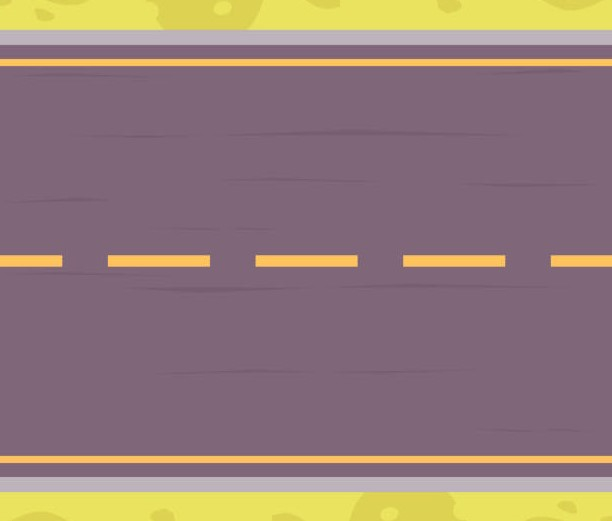
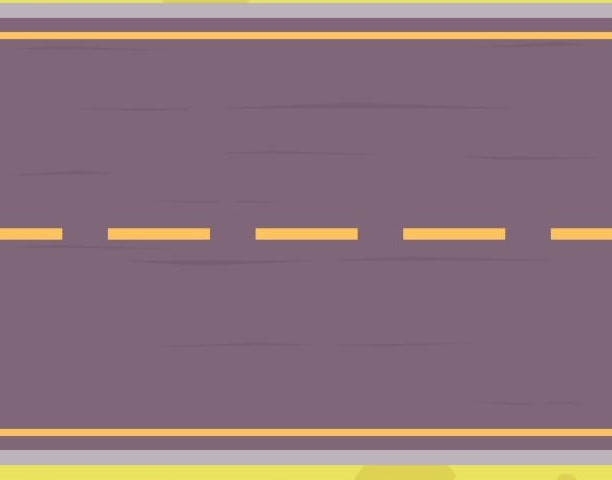
objetos cambiados

diff --git a/js/main.js b/js/main.js
@@ -24,7 +24,7 @@ let piedraArray= [];
 const abajoMax= 350;
 const arribaMax= 0;
 let botellaArray=[];
-let numberVidas= 1; //contador de vidas
+let numberVidas= 2; //contador de vidas
 let speedGlobal= 3;   //velocidad principal de todos los objetos
 
 
@@ -52,7 +52,7 @@ function startGame() {
   }, 20000)
 
   setInterval(()=>{
-    speedGlobal += 0.5;
+    speedGlobal += 0.7;
   }, 6000);
   
 }
@@ -103,20 +103,24 @@ function esElLimiteCorredor(position, direction){
 function addPiedra(){
   let randomPositionY= Math.floor(Math.random()*180)
 
-   let newPiedra= new Piedra(randomPositionY, "pequeña");
+   let newPiedra= new Piedra(randomPositionY, "pequeña", 1);
   piedraArray.push(newPiedra);
   console.log("piedra añadida")
   
   setTimeout(() => {   //piedraGrande saldrá un poco despues en la pantalla
-    let piedraMasGrande= new Piedra(randomPositionY + 250, "grande");
+    let piedraMasGrande= new Piedra(randomPositionY + 250, "grande", 1);
   piedraArray.push(piedraMasGrande);
   }, 3000);
 
   setTimeout(()=>{
-    let botellaObjeto= new Piedra (randomPositionY + 100, "botella");
-  piedraArray.push(botellaObjeto)
+    let donutRosa= new Piedra (randomPositionY + 100, "donut", 1);
+  piedraArray.push(donutRosa)
   }, 9550); 
-  
+
+  setTimeout(()=>{
+    let perroEnojado= new Piedra (randomPositionY + 150, "perro", 2);
+  piedraArray.push(perroEnojado)
+  }, 25000);
 }
 
 function addBotella(){
@@ -161,9 +165,9 @@ function colisionesPiedras(){
       corredor.y + corredor.h > eachPiedra.y
     ) { 
       eachPiedra.node.remove();
-      piedraArray.splice(index, 1);
+      piedraArray.splice(index, 1);  //eliminamos el objeto con el colisiona
     
-      numberVidas--;
+      numberVidas-= eachPiedra.vidas;
       numberVidasNode.innerText=numberVidas;
       loseAudio.play();
 

diff --git a/js/Piedra.js b/js/Piedra.js
@@ -1,10 +1,11 @@
 class Piedra {
-  constructor(positionY, type) {
+  constructor(positionY, type, vidas) {
     this.x = gameBoxNode.offsetWidth;
     this.y = positionY,
-    this.h = 35,
-    this.w = 47,
+    this.h = 40,
+    this.w = 55,
     this.speed= speedGlobal;
+    this.vidas= vidas;
 
 
     this.node = document.createElement("img");
@@ -12,8 +13,10 @@ class Piedra {
         this.node.src = "./images/piedra-peque.png";
     }else if( type === "grande"){
         this.node.src = "./images/piedra-grande.png";
-    }else if(type === "botella"){
-        this.node.src= "./images/botella_vacia.png";
+    }else if(type === "donut"){
+        this.node.src= "./images/donut.png";
+    }else if(type === "perro"){
+      this.node.src= "./images/perro-enojado.png";
     }
     
     gameBoxNode.append(this.node); //añadimos la piedra a la pantalla del juego

diff --git a/styles/style.css b/styles/style.css
@@ -80,15 +80,24 @@ body {
     background-color: rgb(121, 171, 142);
     width:600px;
     height:450px;
-  
+
     position: relative; /*posiciona los element de forma absoluta dentro de game-box */
     overflow: hidden; /* los element no salgan visualmente del game-box */
     user-select: none; /* element del game-box no sean resaltados al hacer click */
-    
+  }
+  
+  .road{
+    position: absolute;
+    top: 
+    width: 100%;
+    height: 100%;
     background-image: url("../images/carretera.jpg");
-    background-position: center;
     background-size: cover;
   }
+    
+    
+   
+  
 
   #end-btn{
     background-color: rgb(249, 249, 249);

diff --git a/index.html b/index.html
@@ -28,7 +28,7 @@
 
     <!-- PANTALLA DE JUEGO-->
     <div id="game-screen" class="container">
-      <h2> VIDAS <span id="numberVidas"> 1 </span> 
+      <h2> VIDAS <span id="numberVidas"> 2 </span> 
         <img src="./images/corazon-vida-removebg-preview.png" width="30" alt="logoCorazon"/>
       </h2>
       <div id="botonAudio">
